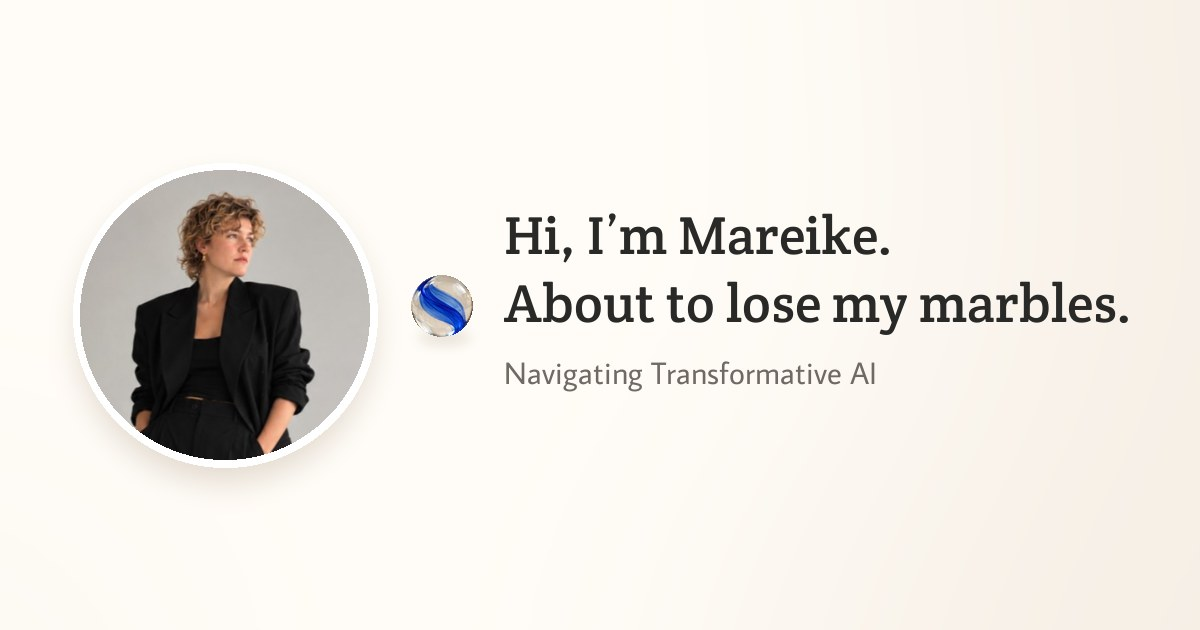
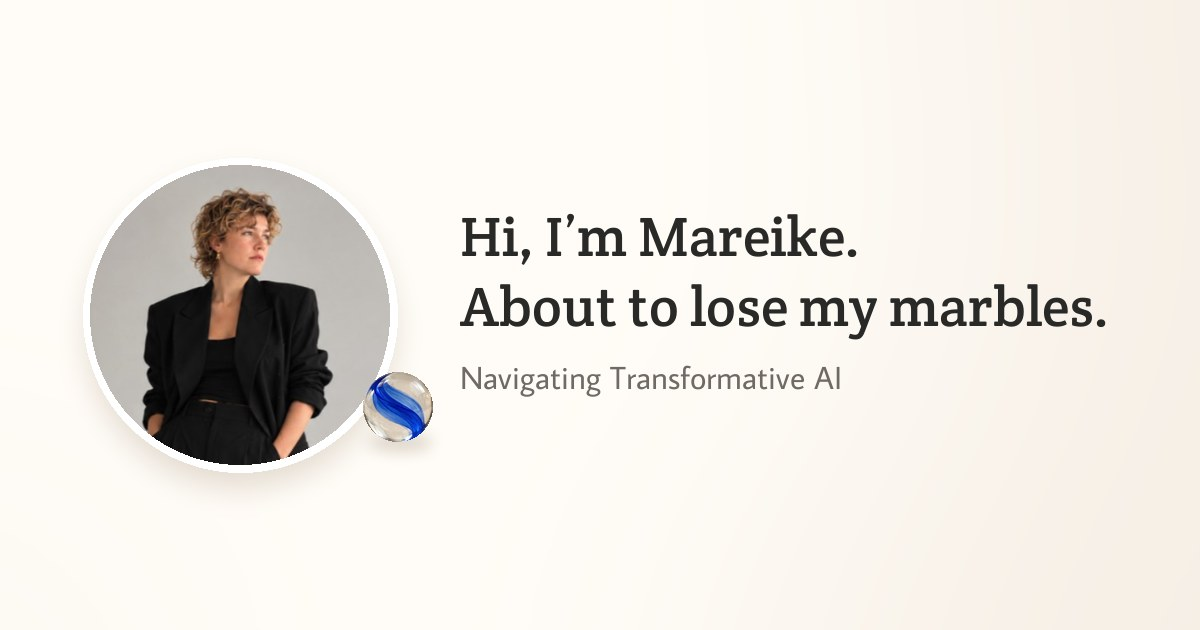
Link preview picture: the blue marble overlaps the portrait's edge

diff --git a/index.html b/index.html
@@ -1,1 +1,1 @@
-<!doctype html><html lang="en"><head><meta charset="utf-8"><meta name="viewport" content="width=device-width, initial-scale=1"><meta name="theme-color" content="#faf8f5"><title>Mareike Jens · Navigating Transformative AI</title><meta name="description" content="About to lose my marbles. Pick the ideas you’d like to discuss with me over coffee."><meta property="og:type" content="website"><meta property="og:url" content="https://mareikejens.com/"><meta property="og:site_name" content="Mareike Jens"><meta property="og:title" content="Mareike Jens · Navigating Transformative AI"><meta property="og:description" content="About to lose my marbles. Pick the ideas you’d like to discuss with me over coffee."><meta property="og:image" content="https://mareikejens.com/assets/og-image.jpg?v=2"><meta property="og:image:width" content="1200"><meta property="og:image:height" content="630"><meta property="og:image:alt" content="Mareike Jens: Hi, I’m Mareike. About to lose my marbles."><meta name="twitter:card" content="summary_large_image"><meta name="twitter:image" content="https://mareikejens.com/assets/og-image.jpg?v=2"><link rel="icon" href="/favicon.ico"><link rel="apple-touch-icon" href="/apple-touch-icon.png"><link rel="stylesheet" href="style.css"><link rel="stylesheet" href="play.css"><script defer src="content.js"></script><script defer src="explosion.js"></script><script defer src="motion.js"></script><script defer src="vendor/matter.min.js"></script><script defer src="track.js"></script><script defer src="jar.js"></script><script defer src="play.js"></script><script defer src="app.js"></script></head><body class="cover"><header class="mast"><button class="face" type="button" data-about><img src="assets/mareike.jpg" alt="Mareike Jens"></button><button class="mast-title" type="button" data-about><span id="siteTitle"></span></button><nav class="mast-tools" id="mastTools"></nav></header><main id="app"></main><dialog id="sheet"><button class="x"></button><section id="detail"></section></dialog></body></html>
+<!doctype html><html lang="en"><head><meta charset="utf-8"><meta name="viewport" content="width=device-width, initial-scale=1"><meta name="theme-color" content="#faf8f5"><title>Mareike Jens · Navigating Transformative AI</title><meta name="description" content="About to lose my marbles. Pick the ideas you’d like to discuss with me over coffee."><meta property="og:type" content="website"><meta property="og:url" content="https://mareikejens.com/"><meta property="og:site_name" content="Mareike Jens"><meta property="og:title" content="Mareike Jens · Navigating Transformative AI"><meta property="og:description" content="About to lose my marbles. Pick the ideas you’d like to discuss with me over coffee."><meta property="og:image" content="https://mareikejens.com/assets/og-image.jpg?v=3"><meta property="og:image:width" content="1200"><meta property="og:image:height" content="630"><meta property="og:image:alt" content="Mareike Jens: Hi, I’m Mareike. About to lose my marbles."><meta name="twitter:card" content="summary_large_image"><meta name="twitter:image" content="https://mareikejens.com/assets/og-image.jpg?v=3"><link rel="icon" href="/favicon.ico"><link rel="apple-touch-icon" href="/apple-touch-icon.png"><link rel="stylesheet" href="style.css"><link rel="stylesheet" href="play.css"><script defer src="content.js"></script><script defer src="explosion.js"></script><script defer src="motion.js"></script><script defer src="vendor/matter.min.js"></script><script defer src="track.js"></script><script defer src="jar.js"></script><script defer src="play.js"></script><script defer src="app.js"></script></head><body class="cover"><header class="mast"><button class="face" type="button" data-about><img src="assets/mareike.jpg" alt="Mareike Jens"></button><button class="mast-title" type="button" data-about><span id="siteTitle"></span></button><nav class="mast-tools" id="mastTools"></nav></header><main id="app"></main><dialog id="sheet"><button class="x"></button><section id="detail"></section></dialog></body></html>
